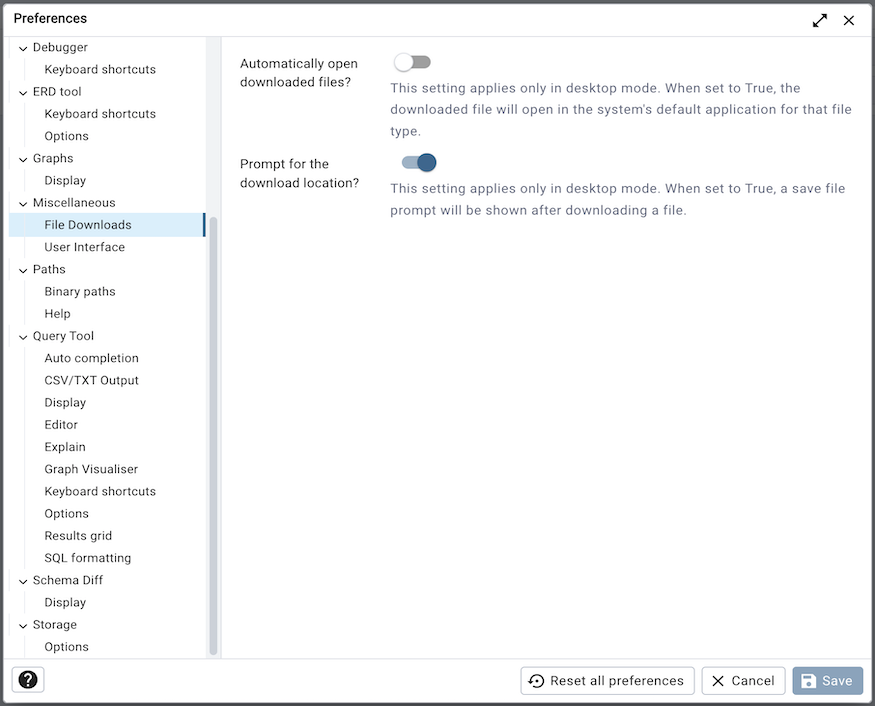
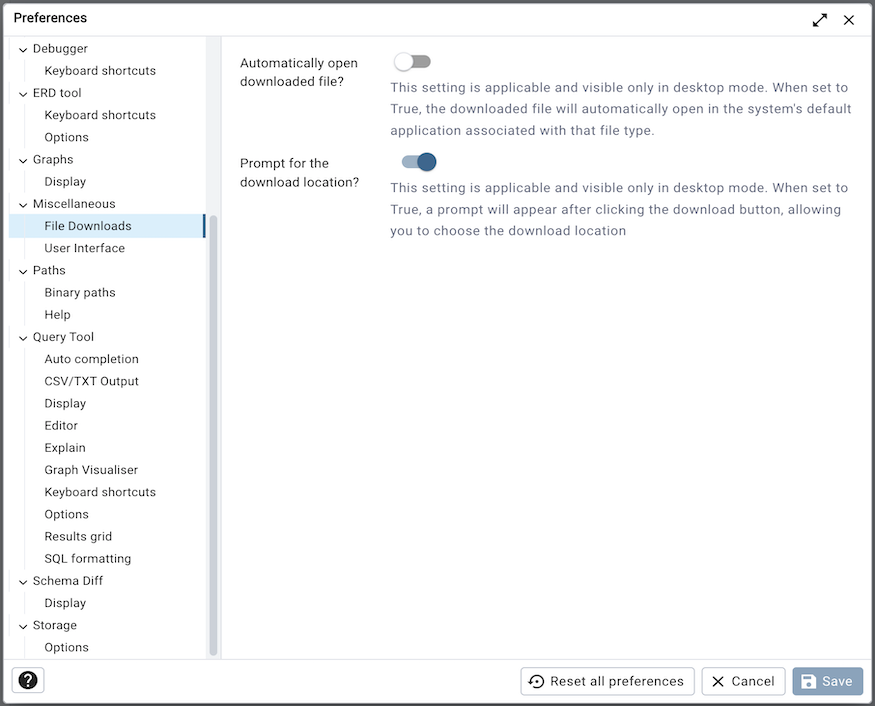
Changes in docs file.

diff --git a/docs/en_US/preferences.rst b/docs/en_US/preferences.rst
@@ -284,7 +284,8 @@ Use the fields on the *File Downloads* panel to manage file downloads related pr
   application associated with that file type.
 
 * When the *Prompt for the download location?* switch is set to *True*
-  a save file prompt will be shown after downloading a file.
+  a prompt will appear after clicking the download button, allowing you
+  to choose the download location.
 
 **Note:** File Downloads related settings are applicable and visible only in desktop mode.
 
